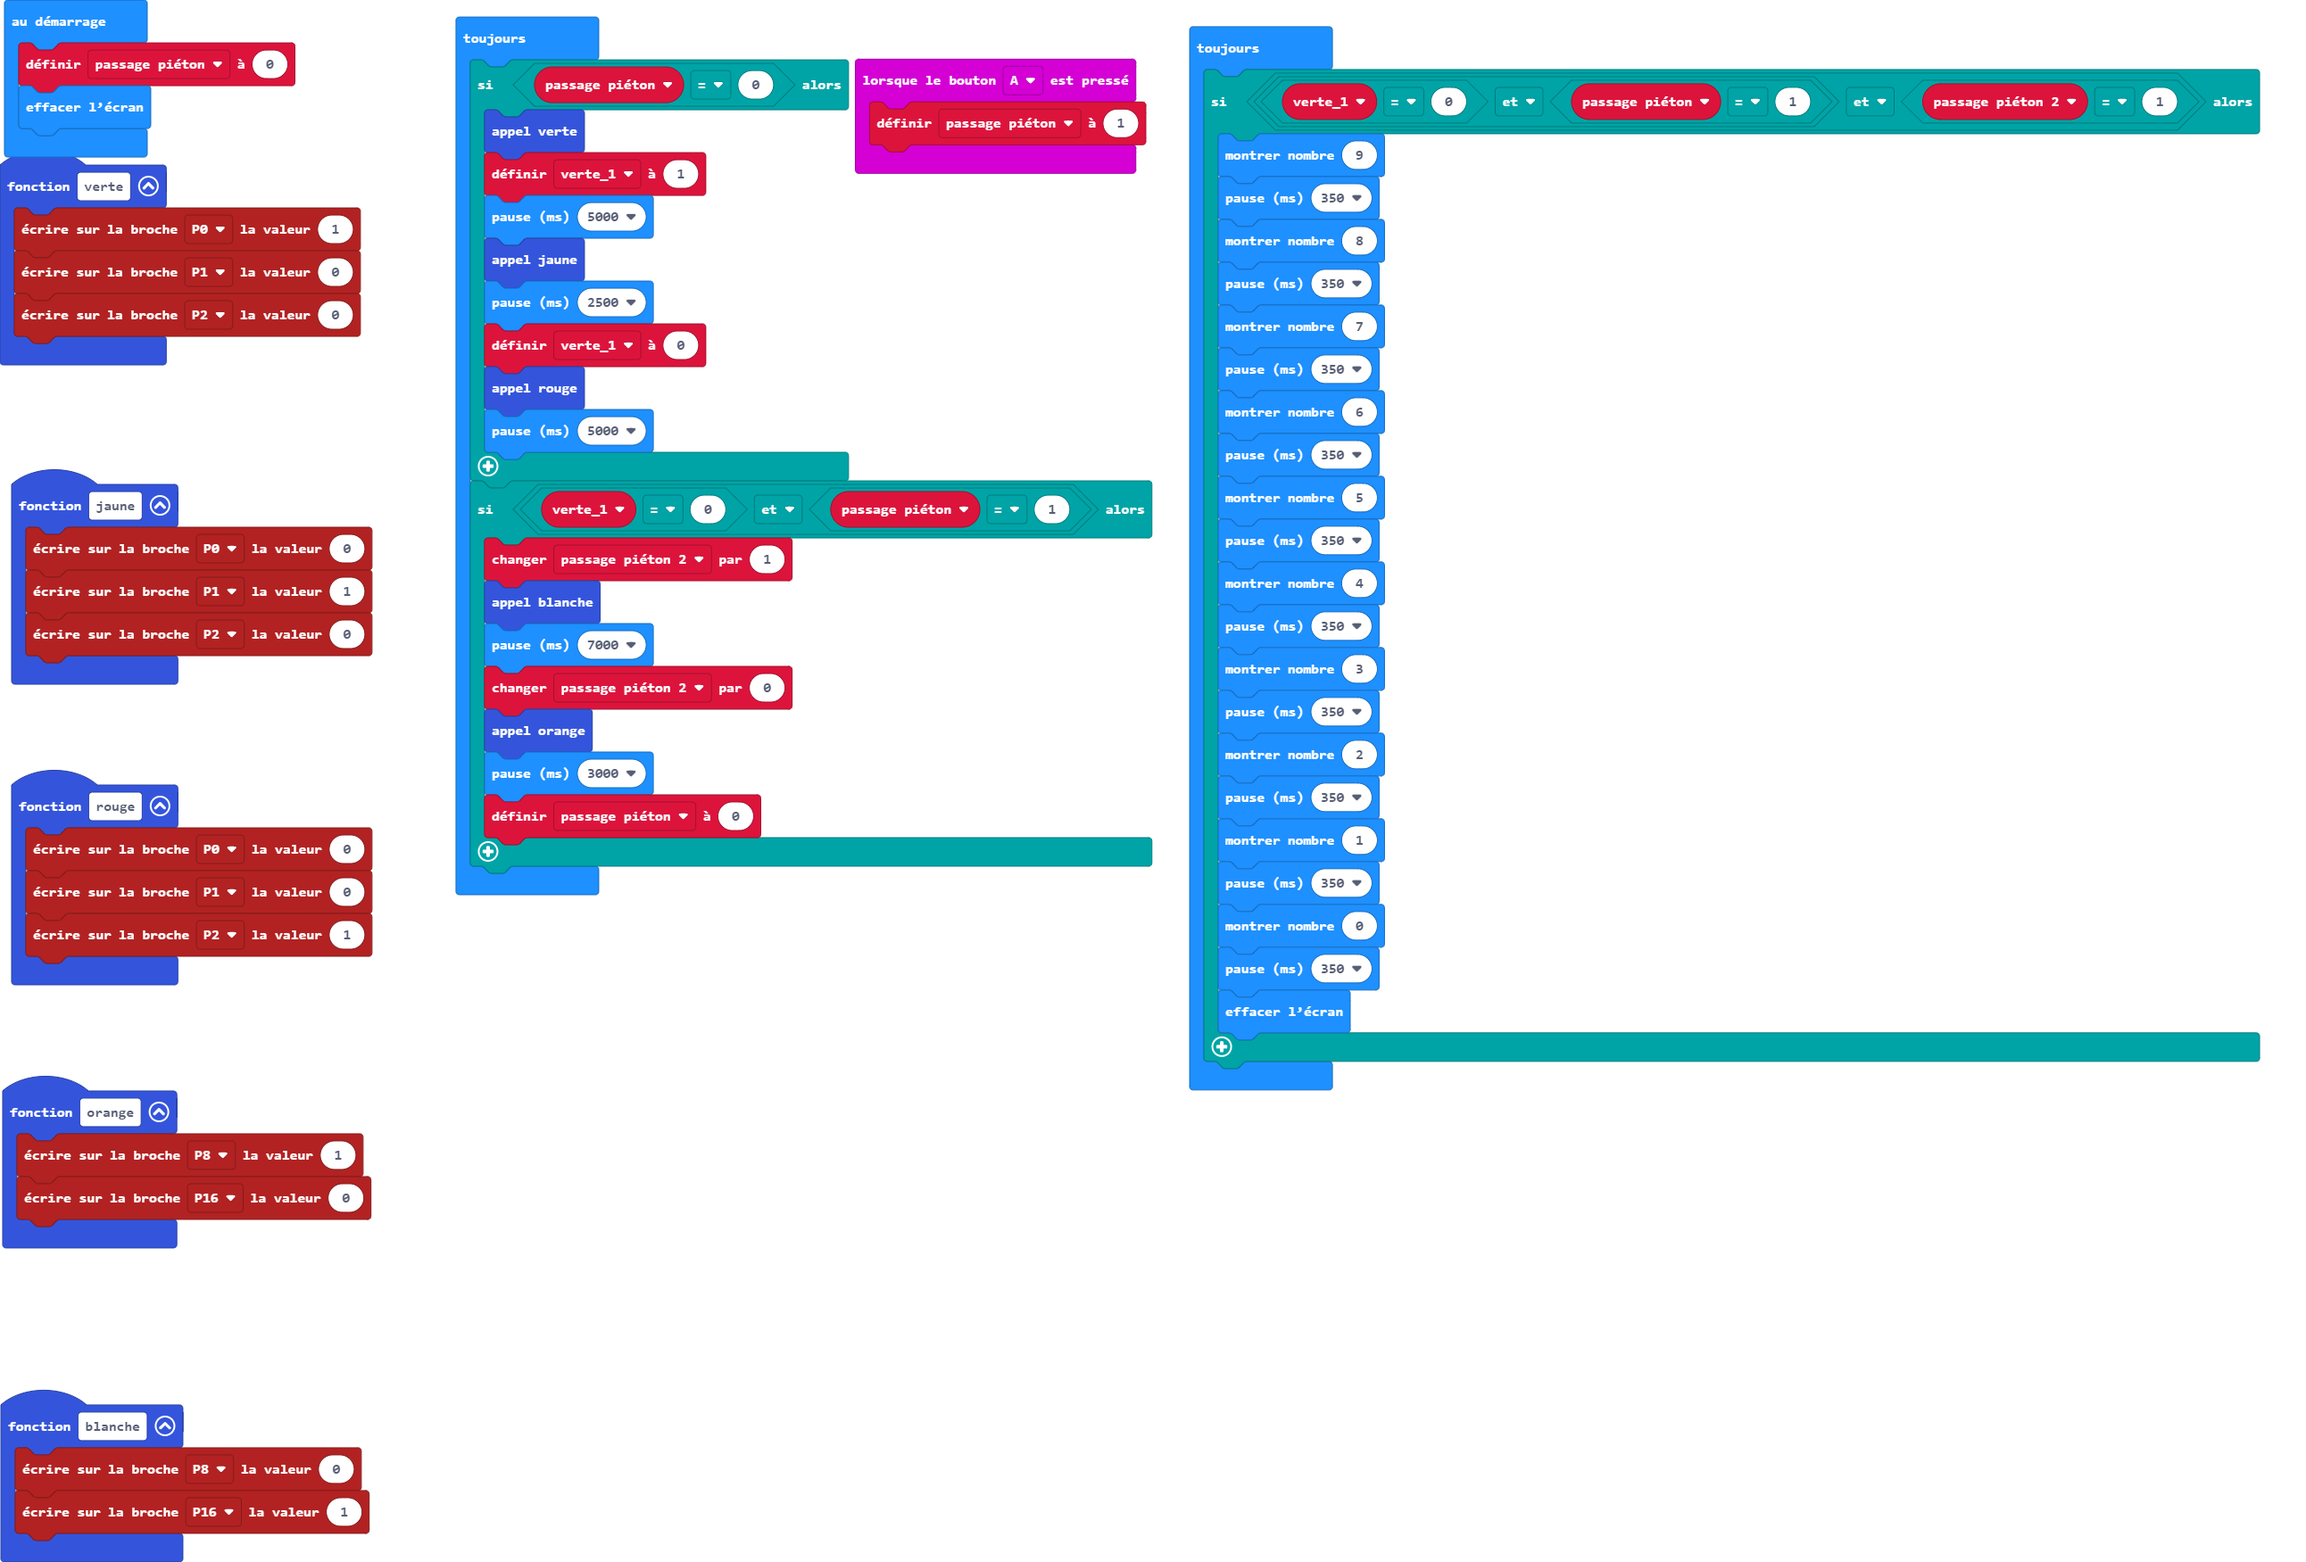
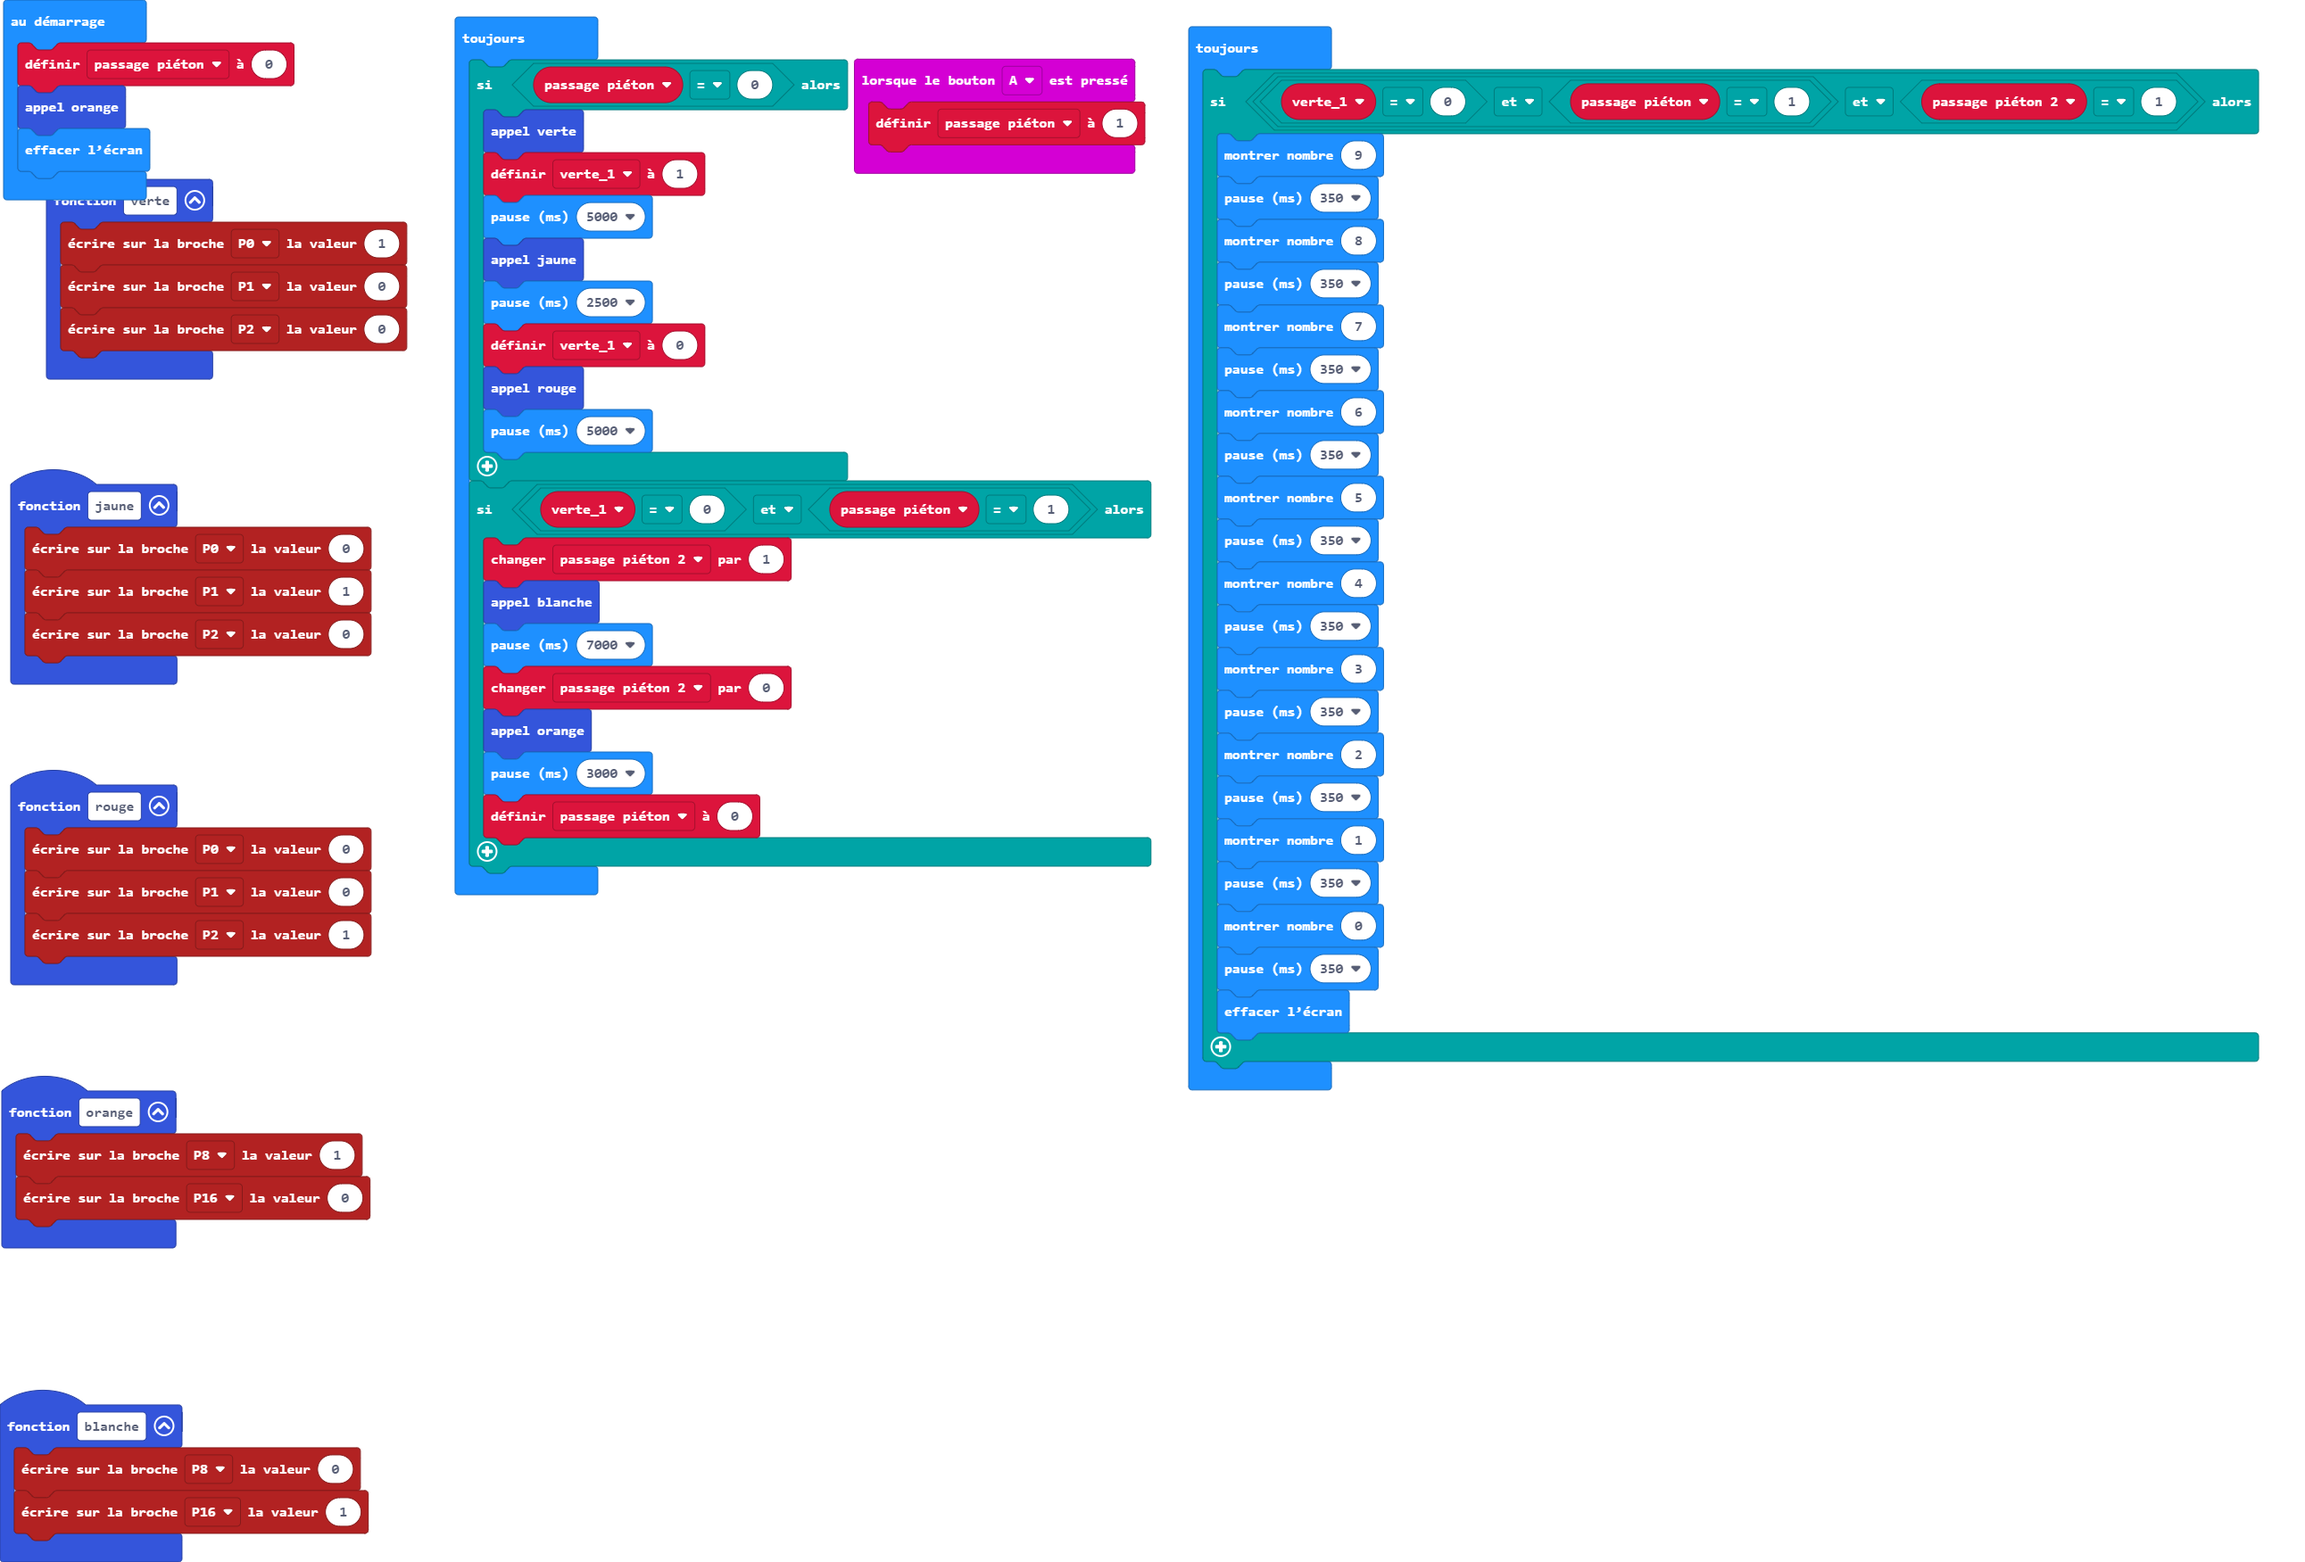
Mettre à jour main.blocks, main.ts

diff --git a/main.ts b/main.ts
@@ -28,6 +28,7 @@ let passage_piéton_2 = 0
 let verte_1 = 0
 let passage_piéton = 0
 passage_piéton = 0
+orange()
 basic.clearScreen()
 basic.forever(function () {
     if (passage_piéton == 0) {
